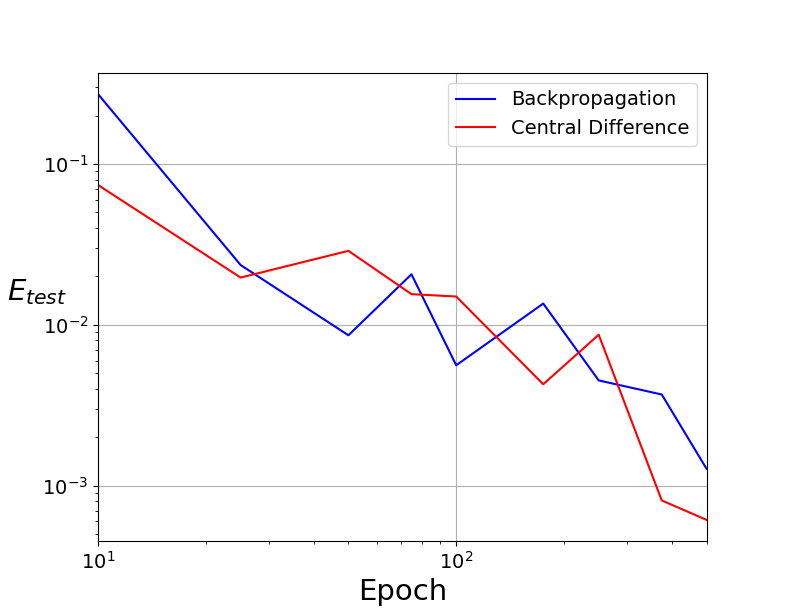
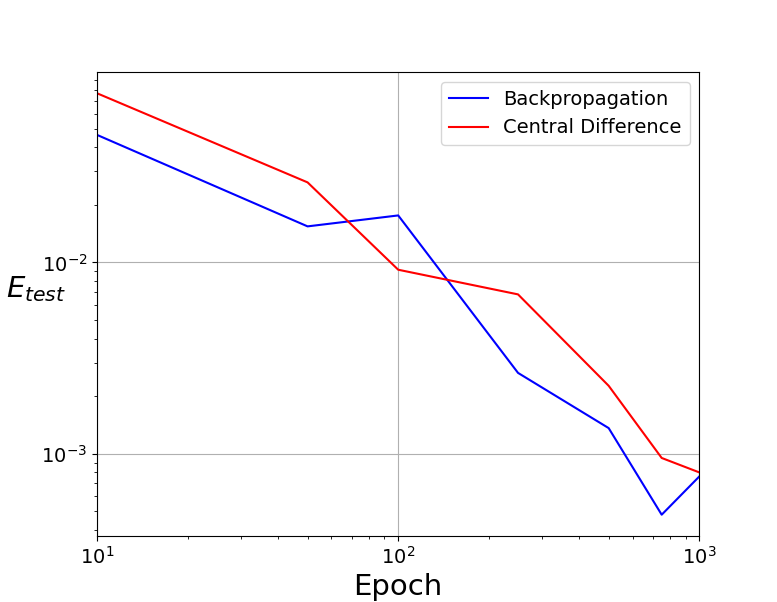
Classification tests

diff --git a/Classification.py b/Classification.py
@@ -1,6 +1,7 @@
 import numpy as np
 import matplotlib.pyplot as plt
 import csv
+import os
 
 class nn:
     def __init__(n, nNodes, aFunc):
@@ -19,9 +20,11 @@ class nn:
         n.y = []
         n.x = []
         n.y.append(np.array(x, ndmin=2).T)
-        for i in range(1,n.nHLayer+1):
+        for i in range(1,n.nHLayer):
             n.x.append(np.matmul(n.w[i-1],n.y[i-1]) + n.b[i-1])
             n.y.append(n.active(n.x[i-1]))
+        n.x.append(np.matmul(n.w[n.nHLayer-1],n.y[n.nHLayer-1]) + n.b[n.nHLayer-1])
+        n.y.append(n.activeEnd(n.x[n.nHLayer-1]))
         return n.y[-1] 
 
     def active(n,x):
@@ -33,21 +36,36 @@ class nn:
         elif n.aFunc == "RELU":
             return np.piecewise(x,
                             [x > 0],
-                            [x, np.zeros(np.shape(x))],
+                            [lambda i: i, 0],
                             )
     
     def activeD(n,x,y):
-        if n.Func == "sigmoid":
+        if n.aFunc == "sigmoid":
             return y*(1-y)
-        elif n.Func == "RELU":
+        elif n.aFunc == "RELU":
             return np.piecewise(x,
                             [x > 0],
-                            [1, np.zeros(np.shape(x))],
+                            [1, 0],
                             )
     
+    def activeEnd(n,x):
+        if n.aFunc == "sigmoid":
+            return np.piecewise(x,
+                            [x > 0],
+                            [lambda i: 1 / (1 + np.exp(-i)), lambda i: np.exp(i) / (1 + np.exp(i))],
+                            )
+        elif n.aFunc == "RELU":
+            return np.exp(x)/np.sum(np.exp(x))
+
+    def activeEndD(n,x,y):
+        if n.aFunc == "sigmoid":
+            return y*(1-y)
+        elif n.aFunc == "RELU":
+            return np.exp(x)/np.sum(np.exp(x))
+
     def backward(n,diffErr):
         DEDy = diffErr # n.y[-1] - n.f(n.y[0])
-        DEDx = DEDy*n.activeD(n.x[-1],n.y[-1])
+        DEDx = DEDy*n.activeEndD(n.x[-1],n.y[-1])
         DEDw = [DEDx@n.y[-2].T]
         DEDb = [DEDx]
         for i in range(n.nHLayer-1,0,-1):
@@ -68,12 +86,13 @@ nStruct = np.array([784,128,10])
 # Set number of training data, epochs and test data
 Ntrain = 60000
 Nbatch = 10
-Nepoch = 2
+Nepoch = 5
 Ntest = 10000
 
 # Set hyperparameters for FD and Gradient descent
 eps = 1 # 2 # 0.01
 trainMode = 2 # 1 = on-line Stochastic Gradient Descent (SGD), 2 = Gradient Descent (GD)
+lossFunc = "MSE" # MSE, CE
 
 if trainMode == 1:
     loss = np.zeros(Ntrain)
@@ -87,7 +106,11 @@ TrainLabel = np.empty((1,60000))
 TestMat = np.empty((784,10000))
 TestLabel = np.empty((1,10000))
 
-with open('C:/Users/mandr/Documents/PHD/NeuralNets/mnist_train.csv', mode ='r') as file:    
+filePathTrain = os.path.join("data","mnist_train.csv")
+filePathTest = os.path.join("data","mnist_test.csv")
+
+# with open('C:/Users/mandr/Documents/PHD/NeuralNets/mnist_train.csv', mode ='r') as file:    
+with open(filePathTrain, mode ='r') as file:    
     csvFile = csv.reader(file)
     i = 0
     for lines in csvFile:
@@ -95,7 +118,8 @@ with open('C:/Users/mandr/Documents/PHD/NeuralNets/mnist_train.csv', mode ='r') 
         TrainMat[:,i] = [int(x)/255 for x in lines[1:]]
         i+=1
 
-with open('C:/Users/mandr/Documents/PHD/NeuralNets/mnist_test.csv', mode ='r') as file:    
+# with open('C:/Users/mandr/Documents/PHD/NeuralNets/mnist_test.csv', mode ='r') as file:    
+with open(filePathTest, mode ='r') as file:    
     csvFile = csv.reader(file)
     i = 0
     for lines in csvFile:

diff --git a/RegressionFDtests.py b/RegressionFDtests.py
@@ -233,19 +233,7 @@ for e in range(M):
 
     errFD[e] /= Ntest
 
-# Plot test errors against Epochs
-# fig, ax = plt.subplots()
-# ax.plot(NepochVec,errBackProp,"b",
-#        NepochVec,errFD,"r")
-# ax.legend(( "Backpropagation", "Central Difference"),fontsize=14)
-# ax.set_yscale('log')
-# ax.set_xscale('log')
-# ax.set_xlabel("Epoch", fontsize = 21)
-# ax.set_ylabel(r"$E_{test}$", fontsize = 21,rotation = 0)
-# ax.set_xlim(NepochVec[0],NepochVec[-1])
-# ax.tick_params(axis='both', which='major', labelsize=14)
-# ax.grid()
-
+# Save output to plot using "plotFDresults.py"
 with open('errBackProp.npy', 'wb') as f:
     np.save(f, errBackProp)
 with open('errFD.npy', 'wb') as f:
@@ -255,14 +243,3 @@ with open('totBackTime.npy', 'wb') as f:
 with open('totFDTime.npy', 'wb') as f:
     np.save(f, totFDTime)
 
-# Plot test errors against time
-# fig, ax = plt.subplots()
-# ax.plot(totBackTime,errBackProp,"b",
-#        totFDTime,errFD,"r")
-# ax.legend(( "Backpropagation", "Central Difference"),fontsize=14)
-# ax.set_yscale('log')
-# ax.set_xscale('log')
-# ax.set_xlabel("wall time (s)", fontsize = 21)
-# ax.set_ylabel(r"$E_{test}$", fontsize = 21,rotation = 0)
-# ax.tick_params(axis='both', which='major', labelsize=14)
-# ax.grid()

diff --git a/plotFDresults.py b/plotFDresults.py
@@ -1,0 +1,36 @@
+import numpy as np
+import matplotlib.pyplot as plt
+
+NepochVec = [10, 50, 100, 250, 500, 750, 1000] 
+
+errBackProp = np.load("data/errBackProp.npy")
+errFD = np.load("data/errFD.npy")
+totBackTime = np.load("data/totBackTime.npy")
+totFDTime = np.load("data/totFDTime.npy")
+
+# Plot test errors against time
+fig, axTime = plt.subplots()
+axTime.plot(totBackTime,errBackProp,"b",
+        totFDTime,errFD,"r")
+axTime.legend(( "Backpropagation", "Central Difference"),fontsize=14)
+axTime.set_yscale('log')
+axTime.set_xscale('log')
+axTime.set_xlabel("wall time (s)", fontsize = 21)
+axTime.set_ylabel(r"$E_{test}$", fontsize = 21,rotation = 0)
+axTime.tick_params(axis='both', which='major', labelsize=14)
+axTime.grid()
+
+# Plot test errors against Epochs
+fig, ax = plt.subplots()
+ax.plot(NepochVec,errBackProp,"b",
+       NepochVec,errFD,"r")
+ax.legend(( "Backpropagation", "Central Difference"),fontsize=14)
+ax.set_yscale('log')
+ax.set_xscale('log')
+ax.set_xlabel("Epoch", fontsize = 21)
+ax.set_ylabel(r"$E_{test}$", fontsize = 21,rotation = 0)
+ax.set_xlim(NepochVec[0],NepochVec[-1])
+ax.tick_params(axis='both', which='major', labelsize=14)
+ax.grid()
+
+plt.show()
